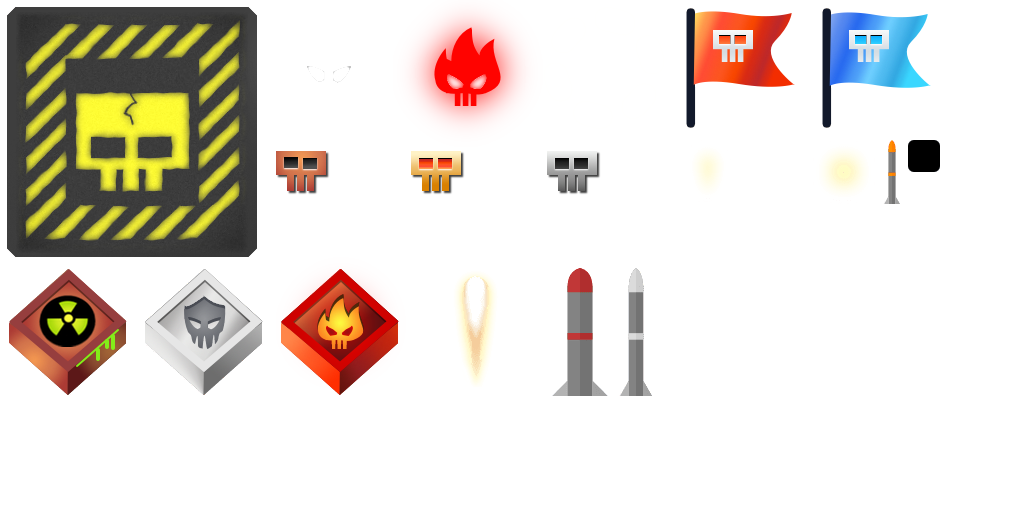
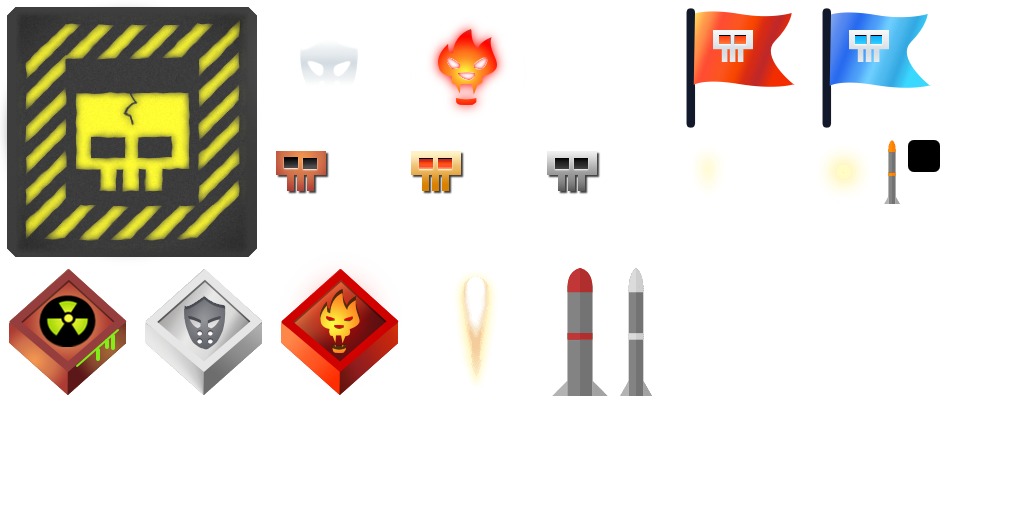
new sprites, flag borders extension compatibility, loading screen

diff --git a/assets/style.css b/assets/style.css
@@ -1311,7 +1311,7 @@ input:focus {
     height: 32px;
     background-repeat: no-repeat;
     background-size: 32px 32px;
[2 lines of base64/hex data omitted]
 }
 
 #gamespecific .redflag {
@@ -1322,7 +1322,7 @@ input:focus {
     height: 32px;
     background-repeat: no-repeat;
     background-size: 32px 32px;
[2 lines of base64/hex data omitted]
 }
 
 #gamespecific .blueflag-player {
@@ -1496,7 +1496,7 @@ input:focus {
     height: 32px;
     background-repeat: no-repeat;
     background-size: 32px 32px;
[2 lines of base64/hex data omitted]
 }
 
 .message .redflag {
@@ -1505,7 +1505,7 @@ input:focus {
     height: 32px;
     background-repeat: no-repeat;
     background-size: 32px 32px;
[2 lines of base64/hex data omitted]
 }
 
 .message .mainerror {
@@ -4509,14 +4509,7 @@ input:focus {
     }
 }
 
-@-webkit-keyframes neonredleft {
-  from {
-    box-shadow: inset 10px 10px 10px rgba(255,17,119, .75);
-  }
-  to {
-    box-shadow: inset 10px 10px 20px rgba(255,17,119, .25);
-  }
-}
+
 @-webkit-keyframes neonredright {
   from {
 
@@ -4525,7 +4518,7 @@ input:focus {
   }
   to {
     
-    background : radial-gradient(ellipse closest-side, rgba(255,17,119, .5) 32%, rgba(255,17,119,0) 67%, rgba(255,17,119,0) 100%); height : 5%; 
+    background : radial-gradient(ellipse closest-side, rgba(255,17,119, .5) 32%, rgba(255,17,119,0) 67%, rgba(255,17,119,0) 100%); height : 4%; 
   }
 }
 @-webkit-keyframes neonblueleft {
@@ -4536,25 +4529,42 @@ input:focus {
   }
   to {
     background : radial-gradient(ellipse closest-side, rgba(0, 245, 245, .5) 32%, rgba(0, 245, 245,0) 67%, rgba(0, 245, 245,0) 100%); 
-    height : 5%;  
-  }
-}
-@-webkit-keyframes neonblueright {
-  from {
-    box-shadow: inset -10px 10px 10px rgba(0, 245, 245, 0.75);
-  }
-  to {
-    box-shadow: inset -10px 10px 20px rgba(0, 245, 245, .25);
+    height : 4%;  
   }
 }
 
+@keyframes smoothload {
+    0%   { opacity:0.0; }
+    80%  { opacity:0.0; }
+    100% { opacity:1.0; }
+}
 
+@keyframes smoothloadcanvas {
+    0%   { opacity:0.0; }
+    80%  { opacity:0.0; }
+    100% { opacity:1.0; }
+}
 
-#flag-border-red-left {}
-#flag-border-red-right.active {-webkit-animation: neonredright .5s ease-in-out alternate; animation-iteration-count: 11; background : radial-gradient(ellipse closest-side, rgba(255,17,119, .5) 32%, rgba(255,17,119,0) 67%, rgba(255,17,119,0) 100%); height : 5%; top: -2%; }
-#flag-border-blue-left.active {-webkit-animation: neonblueleft .5s ease-in-out alternate; animation-iteration-count: 11; background : radial-gradient(ellipse closest-side, rgba(0,212,255,0.5) 32%, rgba(9,9,121,0) 67%, rgba(9,9,121,0) 100%); height : 5%; top: -2%; }
-#flag-border-blue-right {}
-#flag-border-blue-left, #flag-border-red-left {
-    left: 0;
-    border-width: 0 0 0 0px;
+#LoadingMainScreen {background: url('https://raw.githubusercontent.com/TakenOrNot/badassplanestheme/master/assets/loading.png') 50% 15% no-repeat;}
+#login-ui {z-index: 999;}
+#redditPanel {
+    animation: smoothload 8s ease-in forwards;
+    animation-iteration-count: 1;
+    z-index: 2;
+}
+#changelogPanel{
+    animation: smoothload 8s ease-in forwards;
+    animation-iteration-count: 1;
+    z-index: 2;
+}
+#logon{
+    animation: smoothload 8s ease-in forwards;
+    animation-iteration-count: 1;
+    z-index: 2;
+}
+
+canvas {
+    animation: smoothloadcanvas 6s ease-in;
+    animation-iteration-count: 1;
+    z-index: 1;
 }

diff --git a/assets/badass.js b/assets/badass.js
@@ -18,6 +18,16 @@
         return str;
     }
 
+    jQuery.fn.justtext = function() {
+  
+        return $(this)	.clone()
+                .children()
+                .remove()
+                .end()
+                .text();
+
+    };
+    
     // ------------------------------------------------------------------------
 
     // Theme Function
@@ -58,10 +68,114 @@
     
     // ------------------------------------------------------------------------
     
+    // Custom look for Moz's Flag Borders 
+    // https://github.com/fabiospampinato/airmash-swam-extensions/blob/master/extensions/flag_borders.js
+    /* INIT */
+
+    function init () {
+
+        // initHTML ();
+        initStyle ();
+        initEvents ();
+
+    }
+    
+    
+    
+    function initStyle () {
+
+        const style = `
+          <style>
+            body{background: black url('https://raw.githubusercontent.com/TakenOrNot/badassplanestheme/master/assets/loading.png') 50% 15% no-repeat;}
+            
+            #flag-border-red-right:not([style*="display: none"]){-webkit-animation: neonredright .5s ease-in-out alternate; animation-iteration-count: 11; background : radial-gradient(ellipse closest-side, rgba(255,17,119, .5) 32%, rgba(255,17,119,0) 67%, rgba(255,17,119,0) 100%); height : 4%; top: -2%; }
+            #flag-border-blue-left:not([style*="display: none"]){-webkit-animation: neonblueleft .5s ease-in-out alternate; animation-iteration-count: 11; background : radial-gradient(ellipse closest-side, rgba(0,212,255,0.5) 32%, rgba(9,9,121,0) 67%, rgba(9,9,121,0) 100%); height : 4%; top: -2%; }
+            #flag-border-blue-right {}
+            #flag-border-red-left {}
+            #flag-border-blue-left, #flag-border-blue-right, #flag-border-red-left, #flag-border-red-right {
+                border-width: 0 0 0 0px;
+            }
+          </style>
+        `;
+
+        // $('head').append ( style );
+        $('body').append ( style );
+
+    }
+    
+    function initEvents () {
+        
+        // SWAM.on ( 'CTF_FlagEvent', onFlagEvent );
+
+        SWAM.on ( 'CTF_MatchStarted', onMatchStarted );
+        SWAM.on ( 'CTF_MatchEnded', onMatchEnded );
+        SWAM.on ( 'gamePrep', onGamePrep );
+        // SWAM.on ( 'gameWipe', onGameWipe );
+
+    }
+    
+    SWAM.on ( 'gameLoaded', init );
+    
+    /* EVENTS */
+    
+    
+    
+    function onMatchStarted () {
+        toggleRed ( false );
+        toggleBlue ( false );
+    };
+    function onMatchEnded () {
+        toggleRed ( false );
+        toggleBlue ( false );
+    };
+    function onGamePrep () {
+        // toggleRed ( false );
+        // toggleBlue ( false );
+        var blueflagcheck = $( "#blueflag-name" ).justtext(); 
+        var redflagcheck = $( "#redflag-name" ).justtext();
+        if ( blueflagcheck.lenght > 0){
+            console.log("flag already out " + blueflagcheck);
+        };
+        if ( redflagcheck.lenght > 0){
+            console.log("flag already out " + redflagcheck);
+        }
+        
+    };
+    // function onGameWipe () {
+    //    toggleRed ( false );
+    //    toggleBlue ( false );
+    // };
+     
+    /* API */
+
+  function _toggleElement ( selector, force ) {
+    if ( force === undefined ) {
+      force = !$(selector).is ( ':visible' );
+    }
+    if ( force ) {
+      UI.show ( selector );
+    } else {
+      UI.hide ( selector );
+    }
+  }
+
+  function toggleBlue ( force ) {
+    _toggleElement ( '#flag-border-blue-left', force );
+    _toggleElement ( '#flag-border-blue-right', force );
+  }
+
+  function toggleRed ( force ) {
+    _toggleElement ( '#flag-border-red-left', force );
+    _toggleElement ( '#flag-border-red-right', force );
+  }
+    
+    
+    // ------------------------------------------------------------------------
+    
     // We add some metadata to our theme class
     $.extend(Badass2018Theme, {
         themeName: "Badass Planes Theme",
-        description: "As the name says!!",
+        description: "As the name says !",
         author: "xplay"
     });
 
@@ -71,7 +185,7 @@
     SWAM.registerExtension({
         name: "Badass Planes Theme Extension",
         id: "Badass2018",
-        description: "Badass Planes Theme",
+        description: "As the name says !",
         author: "xplay",
         version: "1.0",
         themes: [ Badass2018Theme ]
